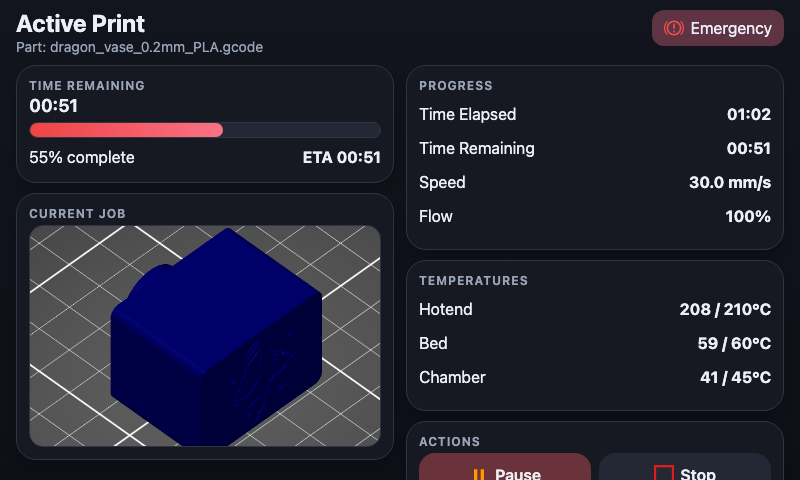
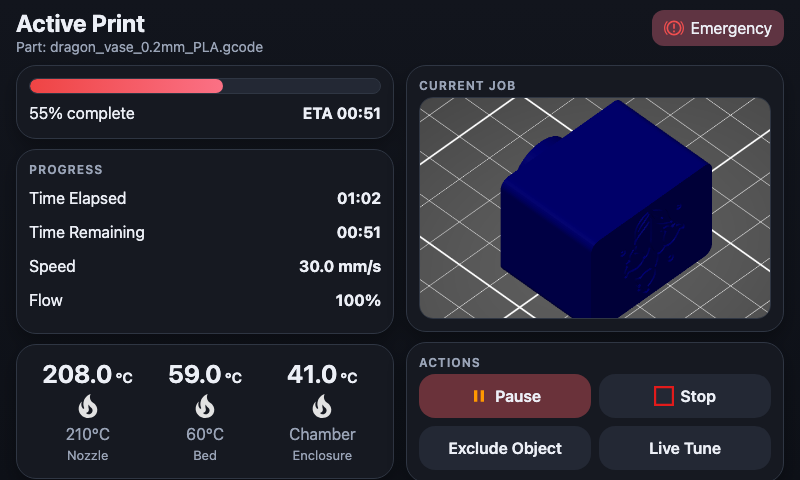
fix

diff --git a/src/screens/PrintScreen.tsx b/src/screens/PrintScreen.tsx
@@ -1,9 +1,11 @@
 import { useEffect, useMemo, useState } from 'react';
 import { Link, Navigate } from 'react-router-dom';
+import heaterIcon from '../../assets/heater.svg';
 import pauseIcon from '../../assets/pause.svg';
 import resumeIcon from '../../assets/resume.svg';
 import stopSquareIcon from '../../assets/stop-square.svg';
 import { Dialog } from '../components/Dialog';
+import { HeaterKeypad, useHeaterKeypad, type HeaterKey } from '../components/HeaterKeypad';
 import { Layout } from '../components/Layout';
 import { useCommands, usePrinterStore } from '../stores/usePrinterStore';
 import { pct } from '../utils/format';
@@ -84,6 +86,7 @@ export function PrintScreen() {
   const printerSpeedMmS = usePrinterStore((state) => state.printerSpeedMmS);
   const flowPercent = usePrinterStore((state) => state.flowPercent);
   const runAction = usePrinterStore((state) => state.runAction);
+  const keypad = useHeaterKeypad();
   const [confirmAction, setConfirmAction] = useState<'stop' | 'emergency' | null>(null);
   const connection = usePrinterStore((state) => state.connection);
   const excludeObjects = usePrinterStore((state) => state.excludeObjects);
@@ -133,6 +136,39 @@ export function PrintScreen() {
 
   const remainingLabel = job.remaining || job.eta || '00:00';
   const currentSpeedLabel = Number.isFinite(printerSpeedMmS) ? `${printerSpeedMmS.toFixed(1)} mm/s` : '-- mm/s';
+  const temperatureTiles: {
+    heater: HeaterKey;
+    current: number;
+    target: number;
+    value: string;
+    name: string;
+    label: string;
+  }[] = [
+    {
+      heater: 'extruder',
+      current: temperatures.nozzle.current,
+      target: temperatures.nozzle.target,
+      value: `${Math.round(temperatures.nozzle.target)}°C`,
+      name: 'Nozzle',
+      label: 'Nozzle',
+    },
+    {
+      heater: 'heater_bed',
+      current: temperatures.bed.current,
+      target: temperatures.bed.target,
+      value: `${Math.round(temperatures.bed.target)}°C`,
+      name: 'Bed',
+      label: 'Bed',
+    },
+    {
+      heater: 'chamber',
+      current: temperatures.chamber.current,
+      target: temperatures.chamber.target,
+      value: 'Chamber',
+      name: 'Chamber',
+      label: 'Enclosure',
+    },
+  ];
 
   const toggleExcludeObject = (name: string, disabled: boolean) => {
     if (disabled) return;
@@ -148,8 +184,6 @@ export function PrintScreen() {
       <div className="print-columns">
         <div className="print-column print-column-left">
           <section className="card print-time-card">
-            <div className="card-label">Time Remaining</div>
-            <div className="card-title">{remainingLabel}</div>
             <div
               className="progress-bar print-time-progress"
               role="progressbar"
@@ -162,6 +196,35 @@ export function PrintScreen() {
             <div className="kv"><span>{pct(job.progress)} complete</span><strong>ETA {job.eta}</strong></div>
           </section>
 
+          <section className="card print-progress-card">
+            <div className="card-label">Progress</div>
+            <div className="kv"><span>Time Elapsed</span><strong>{job.elapsed}</strong></div>
+            <div className="kv"><span>Time Remaining</span><strong>{remainingLabel}</strong></div>
+            <div className="kv"><span>Speed</span><strong>{currentSpeedLabel}</strong></div>
+            <div className="kv"><span>Flow</span><strong>{flowPercent}%</strong></div>
+          </section>
+
+          <section className="card print-temps-card" aria-label="Temperatures">
+            {temperatureTiles.map((tile) => (
+              <button
+                key={tile.heater}
+                type="button"
+                className="print-temp-button"
+                aria-label={`Set ${tile.name} temperature. Current ${tile.current.toFixed(1)}°C, target ${Math.round(tile.target)}°C`}
+                onClick={() => keypad.open(tile.heater)}
+              >
+                <span className="print-temp-current">
+                  {tile.current.toFixed(1)}<span className="print-temp-unit">°C</span>
+                </span>
+                <img className="print-temp-icon" src={heaterIcon} alt="" aria-hidden="true" />
+                <span className="print-temp-value">{tile.value}</span>
+                <span className="print-temp-label">{tile.label}</span>
+              </button>
+            ))}
+          </section>
+        </div>
+
+        <div className="print-column print-column-right">
           <section className="card print-thumb-card">
             <div className="card-label">Current Job</div>
             <div className="media-thumb print-media-thumb">
@@ -172,23 +235,6 @@ export function PrintScreen() {
               )}
             </div>
           </section>
-        </div>
-
-        <div className="print-column print-column-right">
-          <section className="card print-progress-card">
-            <div className="card-label">Progress</div>
-            <div className="kv"><span>Time Elapsed</span><strong>{job.elapsed}</strong></div>
-            <div className="kv"><span>Time Remaining</span><strong>{remainingLabel}</strong></div>
-            <div className="kv"><span>Speed</span><strong>{currentSpeedLabel}</strong></div>
-            <div className="kv"><span>Flow</span><strong>{flowPercent}%</strong></div>
-          </section>
-
-          <article className="card print-temps-card">
-            <div className="card-label">Temperatures</div>
-            <div className="kv"><span>Hotend</span><strong>{Math.round(temperatures.nozzle.current)} / {Math.round(temperatures.nozzle.target)}°C</strong></div>
-            <div className="kv"><span>Bed</span><strong>{Math.round(temperatures.bed.current)} / {Math.round(temperatures.bed.target)}°C</strong></div>
-            <div className="kv"><span>Chamber</span><strong>{Math.round(temperatures.chamber.current)} / {Math.round(temperatures.chamber.target)}°C</strong></div>
-          </article>
 
           <section className="card print-actions-card">
             <div className="card-label">Actions</div>
@@ -328,6 +374,7 @@ export function PrintScreen() {
           </div>
         </Dialog>
       ) : null}
+      <HeaterKeypad keypad={keypad} />
     </Layout>
   );
 }

diff --git a/src/styles/theme.css b/src/styles/theme.css
@@ -1183,6 +1183,84 @@ body {
   align-content: start;
 }
 
+@media (max-aspect-ratio: 5/4) {
+  .screen:has(> .print-columns) > .print-columns > .print-column {
+    display: contents;
+  }
+
+  .screen:has(> .print-columns) .print-time-card { order: 1; }
+  .screen:has(> .print-columns) .print-thumb-card { order: 2; }
+  .screen:has(> .print-columns) .print-progress-card { order: 3; }
+  .screen:has(> .print-columns) .print-temps-card { order: 4; }
+  .screen:has(> .print-columns) .print-actions-card { order: 5; }
+}
+
+.print-temps-card {
+  display: grid;
+  grid-template-columns: repeat(3, minmax(0, 1fr));
+  gap: 0;
+  padding: 6px 0;
+}
+
+.print-temp-button {
+  display: flex;
+  flex-direction: column;
+  align-items: center;
+  justify-content: center;
+  gap: 4px;
+  min-width: 0;
+  min-height: 104px;
+  padding: 4px 3px;
+  border: 0;
+  border-right: 1px solid var(--border);
+  border-radius: 0;
+  background: transparent;
+  color: var(--text);
+  font: inherit;
+  cursor: pointer;
+}
+
+.print-temp-button:last-child {
+  border-right: 0;
+}
+
+.print-temp-button:active {
+  background: var(--surface-strong);
+}
+
+.print-temp-current {
+  display: flex;
+  align-items: baseline;
+  gap: 3px;
+  font-size: clamp(18px, 4.8vw, 25px);
+  font-weight: 650;
+  line-height: 1;
+  white-space: nowrap;
+}
+
+.print-temp-unit {
+  font-size: 0.58em;
+}
+
+.print-temp-icon {
+  width: 32px;
+  height: 32px;
+  object-fit: contain;
+}
+
+.print-temp-value {
+  color: var(--text-muted);
+  font-size: calc(16px * var(--text-scale, 1));
+  line-height: 1.1;
+  white-space: nowrap;
+}
+
+.print-temp-label {
+  color: var(--text-muted);
+  font-size: calc(13px * var(--text-scale, 1));
+  line-height: 1.1;
+}
+
 .progress-fill {
   height: 100%;
   border-radius: 999px;
@@ -1840,6 +1918,10 @@ body[data-theme='white'] .exclude-grid-line {
     row-gap: 10px;
     align-items: start;
     align-self: start;
+  }
+
+  .screen:has(> .print-columns) > .print-columns > .print-column {
+    display: grid;
   }
 
   .screen > .live-tune-columns {
